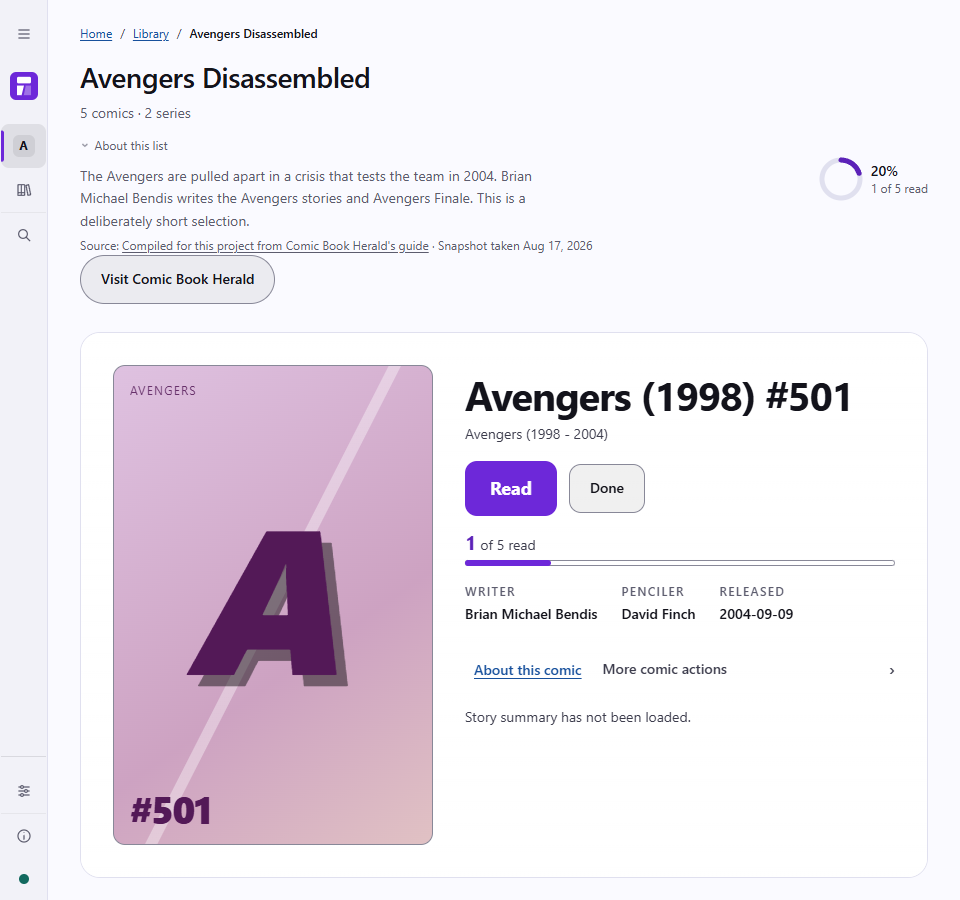
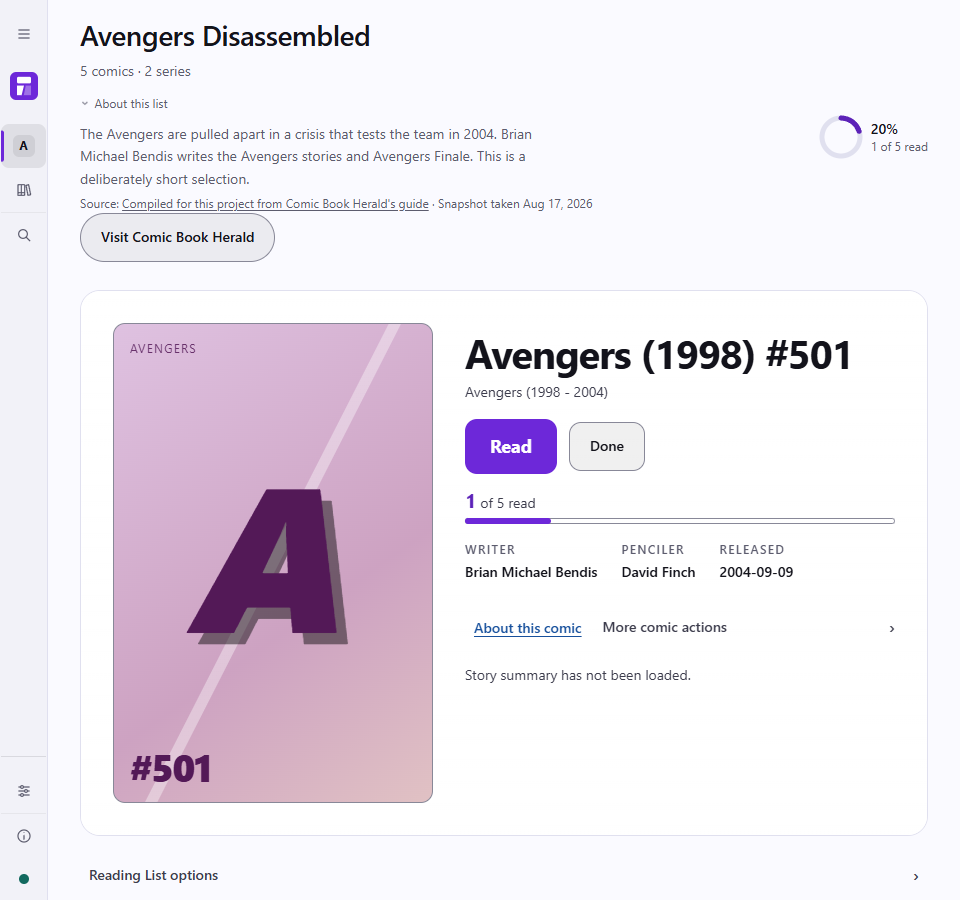
Frame the moved list options in both reading previews
Keep the comic card and list options visible together without changing
the app layout, and describe each frame and its capture provenance.

Changed region(s): [[0.0625, 0.0311, 0.9062, 0.9956], [0.8438, 0.1244, 0.9688, 0.2178]]

diff --git a/pages/index.html b/pages/index.html
@@ -125,7 +125,7 @@
                 width="1080"
                 height="1920"
                 loading="lazy"
-                alt="Android reading view with a fictional next issue, Lantern Harbor #4, a Done button, and fictional writer and penciler credits, above the bottom navigation"
+                alt="Android reading view with fictional Lantern Harbor #4, a Done button, writer and penciler credits, reading progress, and Reading List options above the bottom navigation"
               />
               <figcaption>
                 <strong>Your next comic.</strong>
@@ -263,7 +263,7 @@
                 width="960"
                 height="900"
                 loading="lazy"
-                alt="Avengers Disassembled showing the next issue, Read and Done buttons, and reading progress"
+                alt="Avengers Disassembled showing the next issue, Read and Done buttons, reading progress, and Reading List options below the comic card"
               />
               <figcaption>
                 See what to read next.
